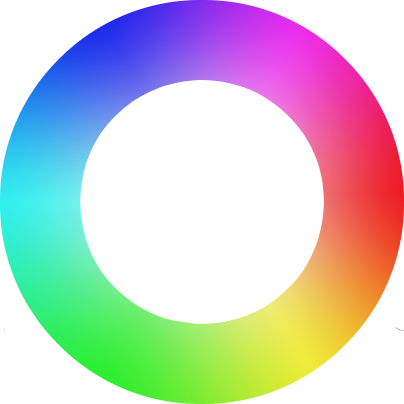
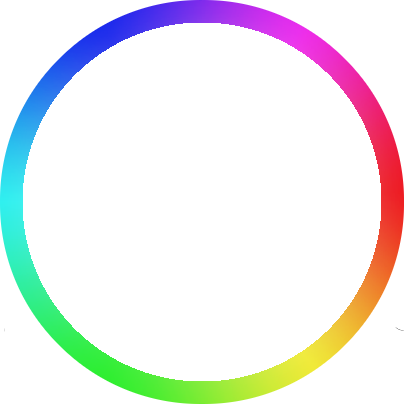
color wheel update

diff --git a/pixel_canvas.js b/pixel_canvas.js
@@ -1,7 +1,11 @@
 // the script for a pixel canvas for fun
 // created 12/28/2023 by Honkyrot
 
-// size of the canvas variables
+// size of the canvas variables, default is 64x36 or 16:9
+let default_size_x = 64;
+let default_size_y = 36;
+
+// configurable size variables
 let size_x = 64;
 let size_y = 36;
 
@@ -13,6 +17,13 @@ let active_color = "hsl(0, 0%, 0%)"
 let last_mouse_pos = null;
 let assigned_pixel = null;
 let currently_dragging = false;
+let color_snap = false;
+
+// configure the size ratio of size_x and size_y
+function configure_size_ratio(x, y) {
+    size_x = x || default_size_x;
+    size_y = y || default_size_y;
+}
 
 // populate the canvas with the correct number of pixels
 function populate_canvas() {
@@ -53,7 +64,7 @@ function populate_canvas() {
 // create the color wheel for dragging
 function create_color_wheel() {
     var color_wheel = document.createElement("img");
-    color_wheel.src = "media/color_wheel_hsl.png";
+    color_wheel.src = "media/color_wheel_hsl2.png";
     color_wheel.setAttribute("id", "color_wheel");
     color_wheel.setAttribute("class", "color_wheel");
     color_wheel.setAttribute("draggable", "false");
@@ -64,6 +75,10 @@ function create_color_wheel() {
     color_wheel.style.top = mouse_position_array[1] + "px";
     color_wheel.style.left = mouse_position_array[0] + "px";
     color_wheel.style.transform = "translate(-50%, -50%)";
+
+    // set default size
+    color_wheel.style.width = "100px";
+    color_wheel.style.height = "100px";
 
     document.body.appendChild(color_wheel);
 
@@ -79,28 +94,35 @@ function destroy_color_wheel() {
 }
 
 // update color wheel based on mouse distance from center
-function update_color_wheel_size(e) {
+function update_color_wheel(event) {
     var color_wheel = document.getElementById("color_wheel");
     var last_mouse_pos_array = last_mouse_pos.split(", ");
 
-    var mouse_position_array = (e.clientX + ", " + e.clientY).split(", ");
+    var mouse_position_array = (event.clientX + ", " + event.clientY).split(", ");
 
     var distance = Math.sqrt(Math.pow(mouse_position_array[0] - last_mouse_pos_array[0], 2) + Math.pow(mouse_position_array[1] - last_mouse_pos_array[1], 2));
 
-    var size = Math.min(Math.max(distance * 2, 100), 500);  // clamp between 100px and 500px
+    var size = Math.min(Math.max(distance * 2, 100), 1000);  // clamp between 100px and 1000px
 
     color_wheel.style.width = size + "px";
     color_wheel.style.height = size + "px";
+
+    // switch color wheel to show if you're snapping to 15 degree increments
+    if (color_snap) {
+        color_wheel.src = "media/color_wheel_hsl2.png";
+    } else {
+        color_wheel.src = "media/color_wheel_hsl.png";
+    }
 
     //console.log(distance);
 }
 
 // mouse events for dragging color
 // on mouse down, assign pixel to variable assigned_pixel
-document.addEventListener("mousedown", function(e) {
-    assigned_pixel = e.target;
+document.addEventListener("mousedown", function(event) {
+    assigned_pixel = event.target;
     //console.log("mouse down");
-    last_mouse_pos = e.clientX + ", " + e.clientY;
+    last_mouse_pos = event.clientX + ", " + event.clientY;
 
     if (currently_dragging == false) {
         currently_dragging = true;
@@ -109,30 +131,35 @@ document.addEventListener("mousedown", function(e) {
 });
 
 // mouse events
-document.addEventListener("mousemove", function(e) {
+document.addEventListener("mousemove", function(event) {
     if (currently_dragging == true) {
-        change_color_mouse(e);
-        update_color_wheel_size(e);
+        change_color_mouse(event);
+        update_color_wheel(event);
 
     }
 });
 
 // mouse up event
-document.addEventListener("mouseup", function(e) {
+document.addEventListener("mouseup", function(event) {
     currently_dragging = false;
     destroy_color_wheel();
-    change_color_mouse(e);
+    change_color_mouse(event);
     //console.log("mouse up");
 });
 
 // on mouse wheel, change how dark the pixel is, up is lighter, down is darker
-document.addEventListener('wheel', function(e) {
-    assigned_pixel = e.target;
+document.addEventListener('wheel', function(event) {
+    assigned_pixel = event.target;
     var hsl_color = assigned_pixel.getAttribute("hsl_color");
     var hsl_color_array = hsl_color.split(", ");
     var lightness = hsl_color_array[2].replace("%)", "");
     lightness = parseInt(lightness);
-    lightness += e.deltaY / 10;
+
+    if (color_snap == true) {
+        lightness += event.deltaY
+    } else {
+        lightness += event.deltaY / 10;
+    }
     
     lightness = Math.min(Math.max(lightness, 0), 100);  // clamp between 0 and 100
 
@@ -141,8 +168,32 @@ document.addEventListener('wheel', function(e) {
     assigned_pixel.setAttribute("hsl_color", hsl_color_array.join(", "));
 });
 
-function change_color_mouse(e) {
-    var mouse_position = e.clientX + ", " + e.clientY;
+document.addEventListener("touchstart", function(event) {
+    assigned_pixel = event.target;
+    //console.log("mouse down");
+    last_mouse_pos = event.clientX + ", " + event.clientY;
+
+    if (currently_dragging == false) {
+        currently_dragging = true;
+        create_color_wheel();
+    }
+});
+
+// if user press left shift, snap to color wheel
+window.addEventListener("keydown", function(event) {
+    if (event.key === "Shift") {
+        color_snap = true;
+    }
+});
+
+window.addEventListener("keyup", function(event) {
+    if (event.key === "Shift") {
+        color_snap = false;
+    }
+});
+
+function change_color_mouse(event) {
+    var mouse_position = event.clientX + ", " + event.clientY;
     var mouse_position_array = mouse_position.split(", ");
     var last_mouse_pos_array = last_mouse_pos.split(", ");
 
@@ -150,10 +201,27 @@ function change_color_mouse(e) {
     var rad = Math.atan2(mouse_position_array[1] - last_mouse_pos_array[1], mouse_position_array[0] - last_mouse_pos_array[0]);
     var deg = rad * (180 / Math.PI);
 
+    // if snapping is true, snap to 15 degree increments
+    if (color_snap == true) {
+        deg = Math.round(deg / 15) * 15;
+    }
+
     active_color = "hsl(" + deg + ", 100%, 50%)";
 
     assigned_pixel.style.backgroundColor = active_color;
     assigned_pixel.setAttribute("hsl_color", active_color);
 }
 // start
+configure_size_ratio();
 populate_canvas();
+
+// mobile check, tell user to use desktop if on mobile, thank you stack overflow
+window.mobileCheck = function() {
+    let check = false;
+    (function(a){if(/(android|bb\d+|meego).+mobile|avantgo|bada\/|blackberry|blazer|compal|elaine|fennec|hiptop|iemobile|ip(hone|od)|iris|kindle|lge |maemo|midp|mmp|mobile.+firefox|netfront|opera m(ob|in)i|palm( os)?|phone|p(ixi|re)\/|plucker|pocket|psp|series(4|6)0|symbian|treo|up\.(browser|link)|vodafone|wap|windows ce|xda|xiino/i.test(a)||/1207|6310|6590|3gso|4thp|50[1-6]i|770s|802s|a wa|abac|ac(er|oo|s\-)|ai(ko|rn)|al(av|ca|co)|amoi|an(ex|ny|yw)|aptu|ar(ch|go)|as(te|us)|attw|au(di|\-m|r |s )|avan|be(ck|ll|nq)|bi(lb|rd)|bl(ac|az)|br(e|v)w|bumb|bw\-(n|u)|c55\/|capi|ccwa|cdm\-|cell|chtm|cldc|cmd\-|co(mp|nd)|craw|da(it|ll|ng)|dbte|dc\-s|devi|dica|dmob|do(c|p)o|ds(12|\-d)|el(49|ai)|em(l2|ul)|er(ic|k0)|esl8|ez([4-7]0|os|wa|ze)|fetc|fly(\-|_)|g1 u|g560|gene|gf\-5|g\-mo|go(\.w|od)|gr(ad|un)|haie|hcit|hd\-(m|p|t)|hei\-|hi(pt|ta)|hp( i|ip)|hs\-c|ht(c(\-| |_|a|g|p|s|t)|tp)|hu(aw|tc)|i\-(20|go|ma)|i230|iac( |\-|\/)|ibro|idea|ig01|ikom|im1k|inno|ipaq|iris|ja(t|v)a|jbro|jemu|jigs|kddi|keji|kgt( |\/)|klon|kpt |kwc\-|kyo(c|k)|le(no|xi)|lg( g|\/(k|l|u)|50|54|\-[a-w])|libw|lynx|m1\-w|m3ga|m50\/|ma(te|ui|xo)|mc(01|21|ca)|m\-cr|me(rc|ri)|mi(o8|oa|ts)|mmef|mo(01|02|bi|de|do|t(\-| |o|v)|zz)|mt(50|p1|v )|mwbp|mywa|n10[0-2]|n20[2-3]|n30(0|2)|n50(0|2|5)|n7(0(0|1)|10)|ne((c|m)\-|on|tf|wf|wg|wt)|nok(6|i)|nzph|o2im|op(ti|wv)|oran|owg1|p800|pan(a|d|t)|pdxg|pg(13|\-([1-8]|c))|phil|pire|pl(ay|uc)|pn\-2|po(ck|rt|se)|prox|psio|pt\-g|qa\-a|qc(07|12|21|32|60|\-[2-7]|i\-)|qtek|r380|r600|raks|rim9|ro(ve|zo)|s55\/|sa(ge|ma|mm|ms|ny|va)|sc(01|h\-|oo|p\-)|sdk\/|se(c(\-|0|1)|47|mc|nd|ri)|sgh\-|shar|sie(\-|m)|sk\-0|sl(45|id)|sm(al|ar|b3|it|t5)|so(ft|ny)|sp(01|h\-|v\-|v )|sy(01|mb)|t2(18|50)|t6(00|10|18)|ta(gt|lk)|tcl\-|tdg\-|tel(i|m)|tim\-|t\-mo|to(pl|sh)|ts(70|m\-|m3|m5)|tx\-9|up(\.b|g1|si)|utst|v400|v750|veri|vi(rg|te)|vk(40|5[0-3]|\-v)|vm40|voda|vulc|vx(52|53|60|61|70|80|81|83|85|98)|w3c(\-| )|webc|whit|wi(g |nc|nw)|wmlb|wonu|x700|yas\-|your|zeto|zte\-/i.test(a.substr(0,4))) check = true;})(navigator.userAgent||navigator.vendor||window.opera);
+    if (check == true) {
+        alert("This site is not compatible with touch screens. Please use a desktop computer or plug in a mouse to use this site.");
+    }
+};
+
+window.mobileCheck();
